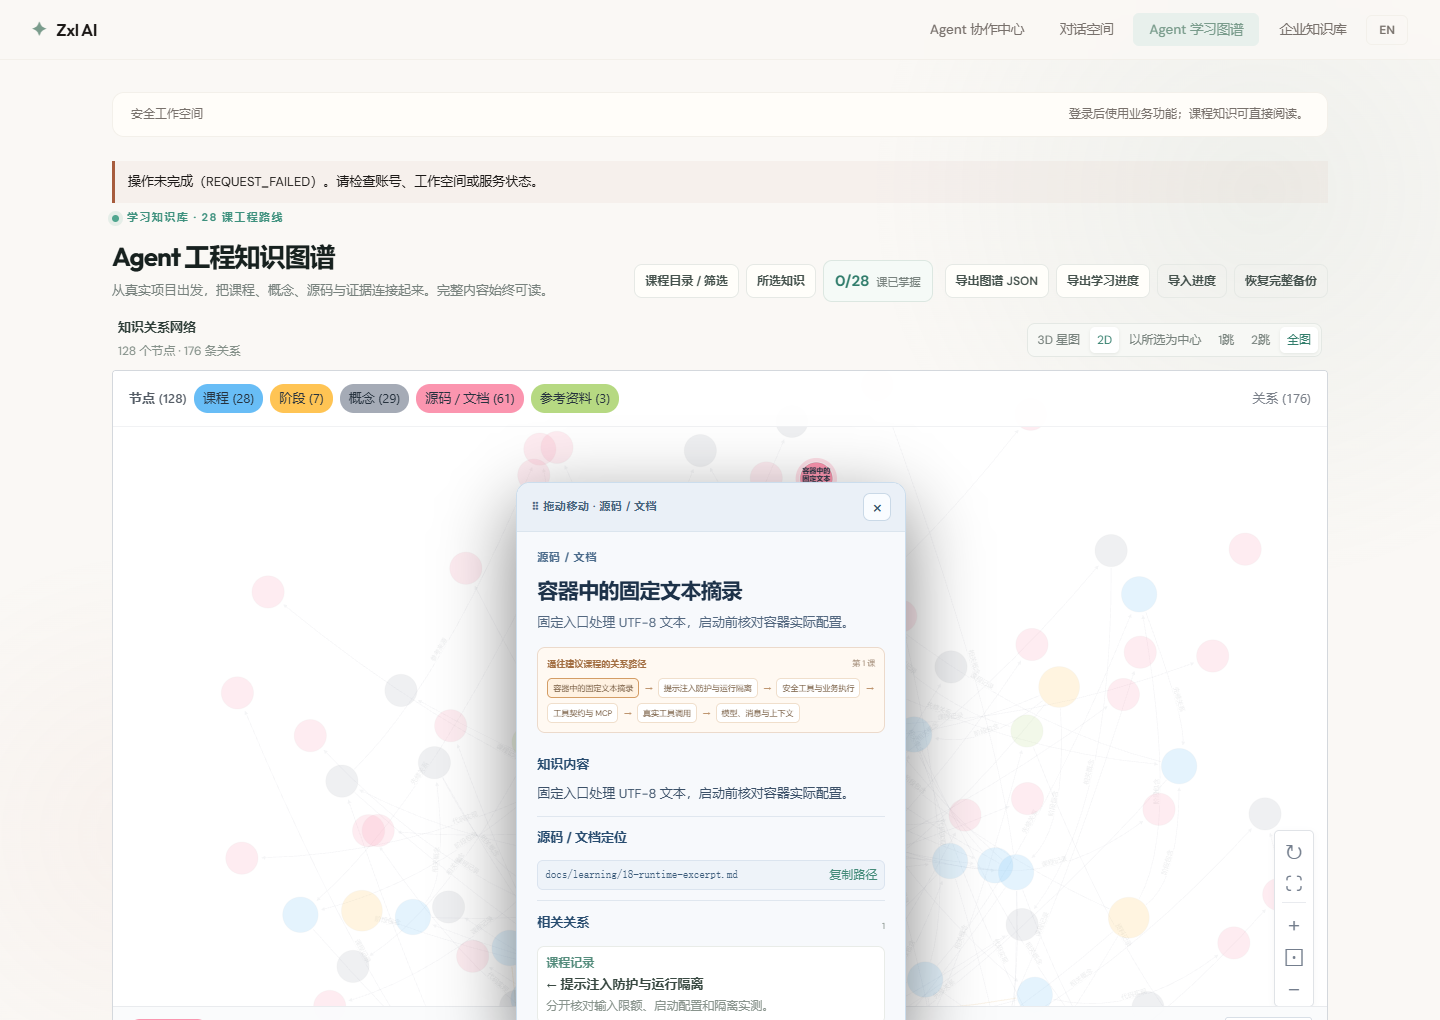
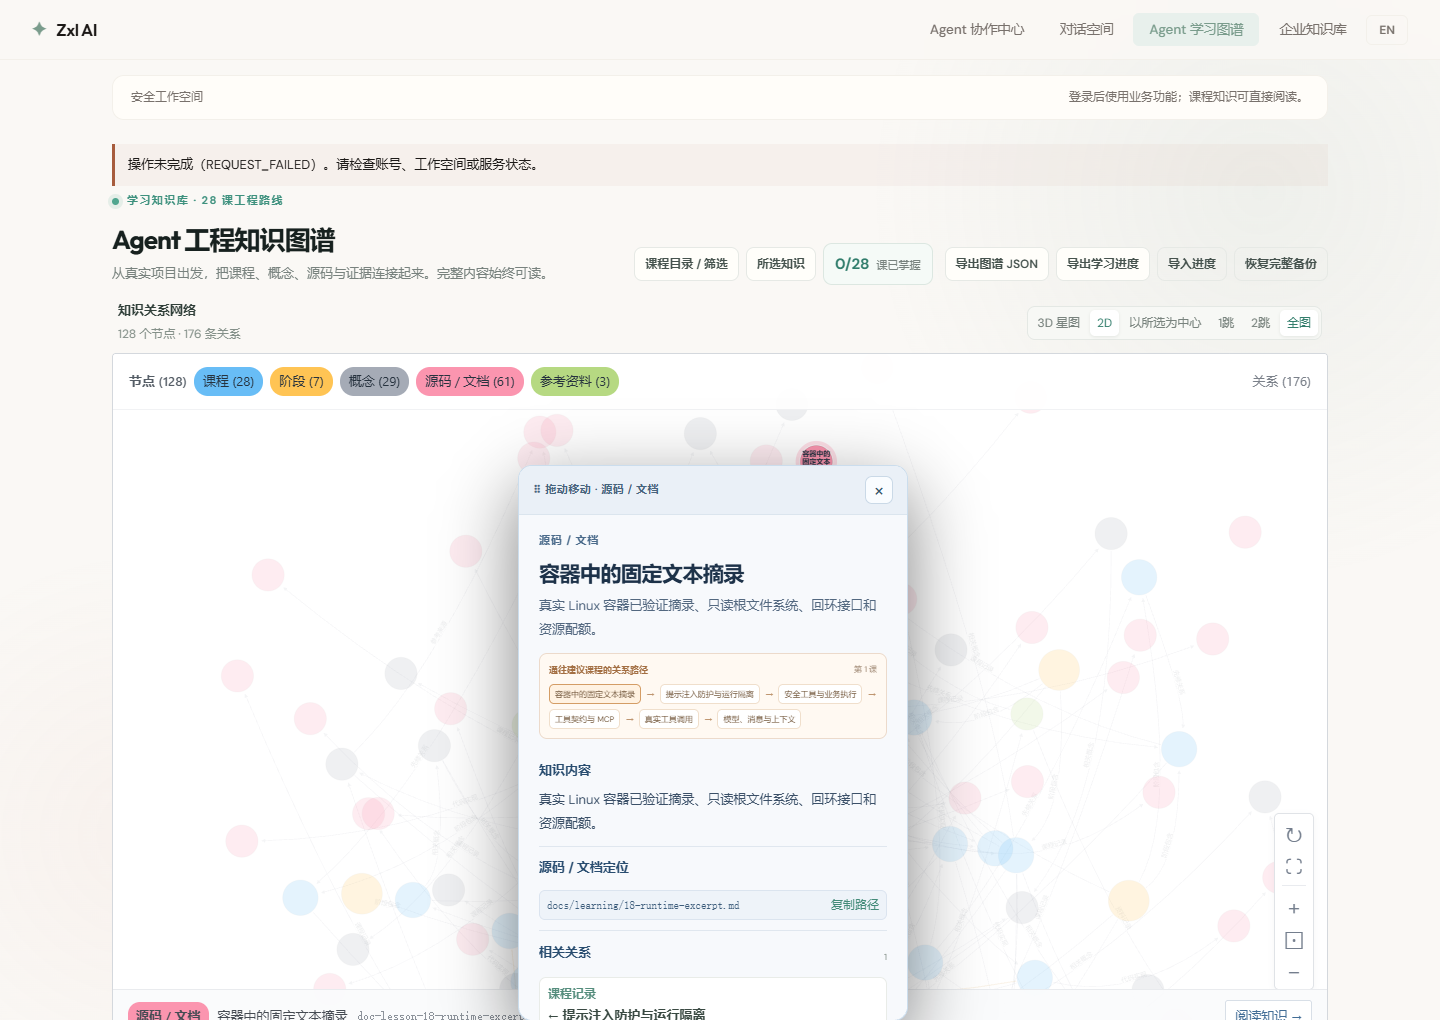
docs(learning): record observed container isolation limits

diff --git a/docs/learning/18-runtime-excerpt.md b/docs/learning/18-runtime-excerpt.md
@@ -19,6 +19,6 @@ docker build -t zxl-lesson18-excerpt:local scripts/lesson18-runtime
 
 启动前读取 Docker 实际生成的容器配置，核对镜像 ID、固定入口、无挂载、网络模式、用户、权限和资源配额。配置不一致时清理容器并拒绝执行。
 
-GitHub Actions 的 Ubuntu 24.04 任务已使用固定摘要构建镜像。真实 Docker 通过了 Unicode 摘录、执行前配置检查和执行后容器清理。容器内部的文件写入拒绝、网络访问拒绝和资源超限终止仍待独立验证。[成功运行](https://github.com/ZxlDragonDoctor/zxl-Ai-agent/actions/runs/43266966520)
+GitHub Actions 的 Ubuntu 24.04 任务使用固定摘要构建镜像。真实 Docker 通过了 Unicode 摘录、执行前配置检查和执行后容器清理。测试在同一运行中的容器内观察到仅有 `lo` 接口，写入根文件系统返回 `EROFS`，cgroup 显示 CPU 配额与周期均为 100000 微秒、内存上限 134217728 字节、进程上限 32。实际触发资源超限终止及外发监听器验证仍待实测。[成功运行](https://github.com/ZxlDragonDoctor/zxl-Ai-agent/actions/runs/43267383398)
 
 [图谱验收截图](../images/lesson18-runtime-excerpt-2026-11-13/README.md)

diff --git a/docs/learning/18-implementation.md b/docs/learning/18-implementation.md
@@ -22,4 +22,4 @@
 
 使用本地 HTTP 服务发送响应头和一个正文字符后暂停，旧实现超过 3 秒仍未退出。修复后，用例在 1 秒请求预算到期后退出。这个用例验证传输行为，真实模型复跑仍待恢复启动配置。
 
-新增固定文本摘录实验，包含独立镜像、容器启动器和输入输出契约测试。本机 Docker Desktop 启动失败，实际入口已验证拒绝运行。GitHub Actions 的真实 Linux Docker 已通过正向摘录、配置检查和容器清理。容器内部的网络、文件和资源限制仍待独立验证。[运行隔离实验](18-runtime-excerpt.md)
+新增固定文本摘录实验，包含独立镜像、容器启动器和输入输出契约测试。本机 Docker Desktop 启动失败，实际入口已验证拒绝运行。GitHub Actions 的真实 Linux Docker 已通过正向摘录、配置检查和容器清理，并在运行中的同一容器观察到仅有回环接口、根文件系统拒绝写入和 cgroup 配额。外发监听器与资源超限终止仍待实测。[运行隔离实验](18-runtime-excerpt.md)
